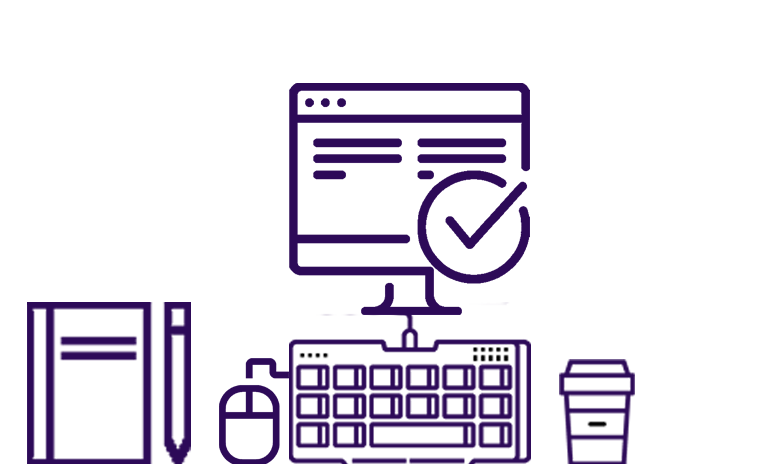
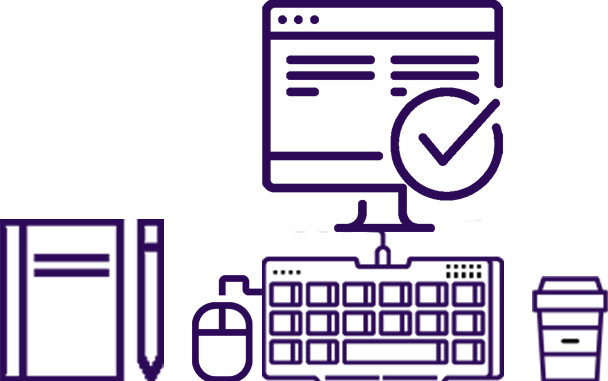
ready to deploy homepage

Changed region(s): [[0.0, 0.0, 0.8438, 1.0], [0.875, 0.7218, 1.0, 1.0]]

diff --git a/public/css/responsive.css b/public/css/responsive.css
@@ -1,7 +1,4 @@
 @media (min-width: 300px) and (max-width: 599px) {
-    body{
-        /* background-color: blue; */
-    }
     /*=NAVBAR=*/
     .nav-bar{
         position: -webkit-sticky;
@@ -35,11 +32,9 @@
     .banner{
         padding: 0px;
         width: 100%;
-        /* padding-bottom: 20px; */
         display: inline;
     }
     .banner-presentation{
-        /* background-color: green; */
         width: 80%;
         text-align: center;
         margin: auto;
@@ -53,16 +48,19 @@
         font-size: 15px;
         width: 100%;
         padding-left: 0px;
-        /* background-color: red; */
+     
     }
     .banner-div{
-        width: 80%;
+        width: 100%;
         margin: auto;
     }
     .img-banner{
+        border-radius: 0px;
+        margin-bottom: 40px;
     }
     .marie{
-        display: none;
+        position: static;
+        text-align: center;
     }
 
     /*Title*/
@@ -71,21 +69,55 @@
     }
     /*Techno*/
     .intro-techno{
-        width: 70%;
+        width: 80%;
     }
     .banner-techno{
+        margin-top: 20px;
         margin-bottom: -23px;
     }
 
     /*Project*/
     .intro-project{
-        width: 40%;
+        width: 80%;
     }
     .banner-project{
+        margin-top: 30px;
         margin-bottom: -26px;
     }
 
+    /*Training*/
+    .intro-training{
+        width: 80%;
+    }
+    .banner-training{
+        margin-top: 30px;
+        margin-bottom: -24px ;
+    }
+
+    /*Social*/
+    .social-wrapper {
+        width: 100%;
+        display: inline;
+    }
+    .social-box{
+        border-radius: 20px 20px 0 0;
+        width: 100%;
+        margin:auto;
+    }
+    .banner-social{
+        width: 70%;
+        margin: -84px auto -25px auto;
+    }
+    .social-image-box{
+        width: 60%;
+    }
+    .social-wrapper p{
+        font-size: 20px;
+    }
     /*Section de base*/
+    .section{
+        width: 100%;       
+    }
 
     /*BOX*/
     .last-three{
@@ -104,12 +136,33 @@
     .see-all-button{
         font-size: 15px;
     }
+    .social-wrapper .fas {
+        display: none;
+    }
+    .hashtag{
+        display: none;
+    }
+    /*SCROLL BUTTON*/
+    #scroll-to-top-button {
+        bottom: 30px;
+        right: -130px;
+    }
+    .arrow-top{
+        width: 15%;
+    }
+
+    /*Footer*/
+    .footer{
+        display: block;
+        height: 100px;
+        text-align: center;
+    }
+    .footer p {
+        font-size: 0.8em;
+    } 
 }
 
 @media (min-width: 600px) and (max-width: 1024px) {
-    body{
-        /* background-color: red; */
-    }
     .banner-presentation h1{
         transform: rotate(0deg);
         padding-left: 0px;
@@ -121,7 +174,6 @@
         margin: auto;
     }
     .marie{
-        /* background-color: blue; */
         position: absolute;
         left: 32%;
         top:4%;

diff --git a/public/css/button.css b/public/css/button.css
@@ -3,19 +3,16 @@
     display: none;
     position: fixed;
     bottom: 20px;
-    right: 30px;
+    right: -80px;
     z-index: 99;
-    font-size: 18px;
     border: none;
     outline: none;
     background-color: transparent;
-    color: white;
     cursor: pointer;
 
 }
-.fa-arrow-circle-up:before {
-    color: #2d0a58;
-    background-color: white;
+.arrow-top{
+    width: 30%;
 }
 
 /*BASIC BUTTON*/

diff --git a/public/css/footer.css b/public/css/footer.css
@@ -4,6 +4,12 @@
     color: #ec7106 ;
     display: flex;
     justify-content: center;
-    height: 40px;
+    justify-content: space-around;
+    height: 60px;
+    border-top: 5px solid #ec7106;
     /* margin-bottom: -10; */
+}
+.footer p a {
+    color: #ec7106 ;
+    text-decoration: none;
 }
